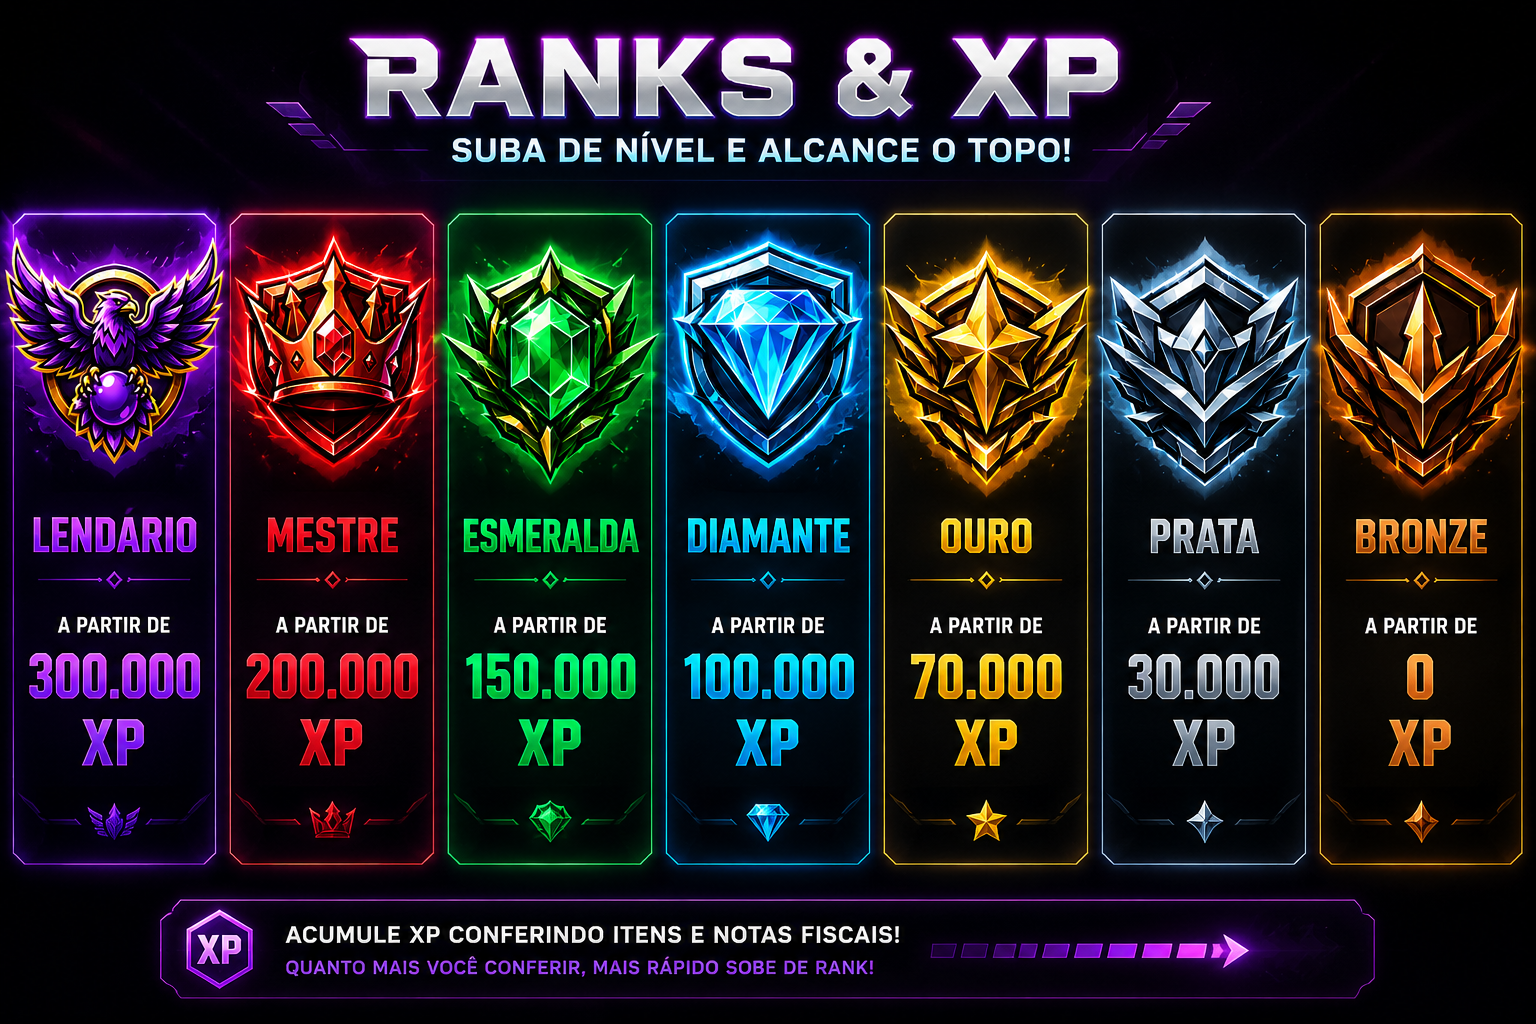
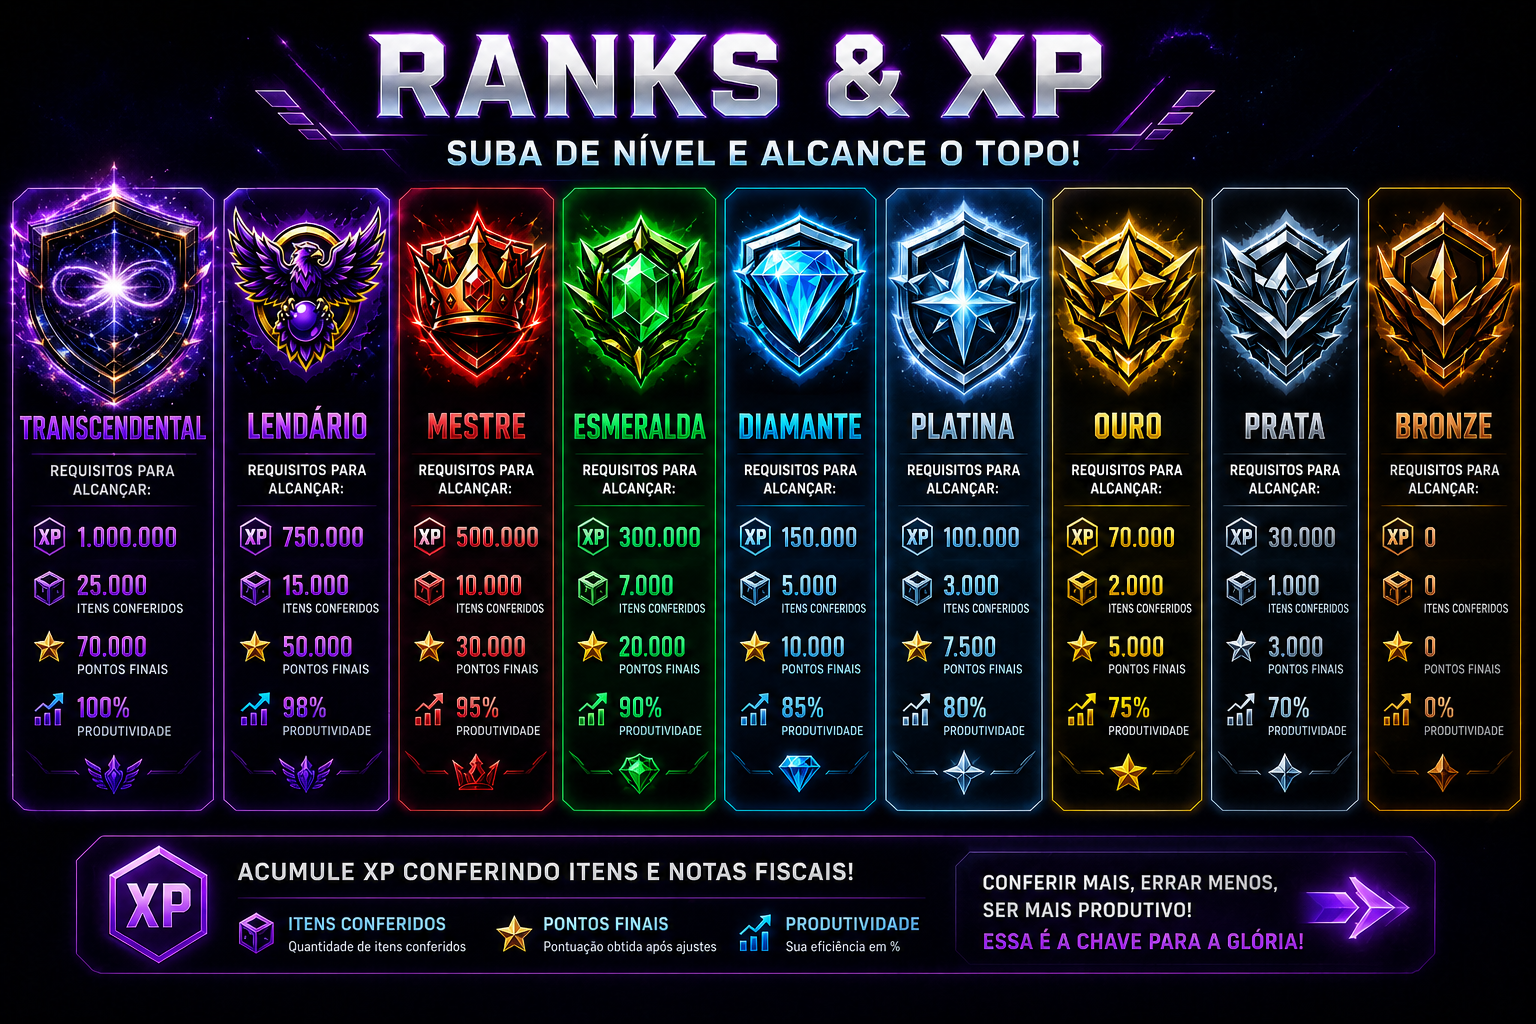
fix: rank transcendental

diff --git a/src/pages/Produtividade.jsx b/src/pages/Produtividade.jsx
@@ -2864,7 +2864,7 @@ export default function Produtividade() {
                     {/* BANNER */}
                     <Box
                         component="img"
-                        src="/ranks/banner-ranks.png"
+                        src="/ranks/banner.png"
                         onClick={() =>
                             setImagemFullscreen(true)
                         }
@@ -3175,7 +3175,7 @@ export default function Produtividade() {
 
                     <Box
                         component="img"
-                        src="/ranks/banner-ranks.png"
+                        src="/ranks/banner.png"
                         sx={{
                             maxWidth: "100%",
                             maxHeight: "100%",
